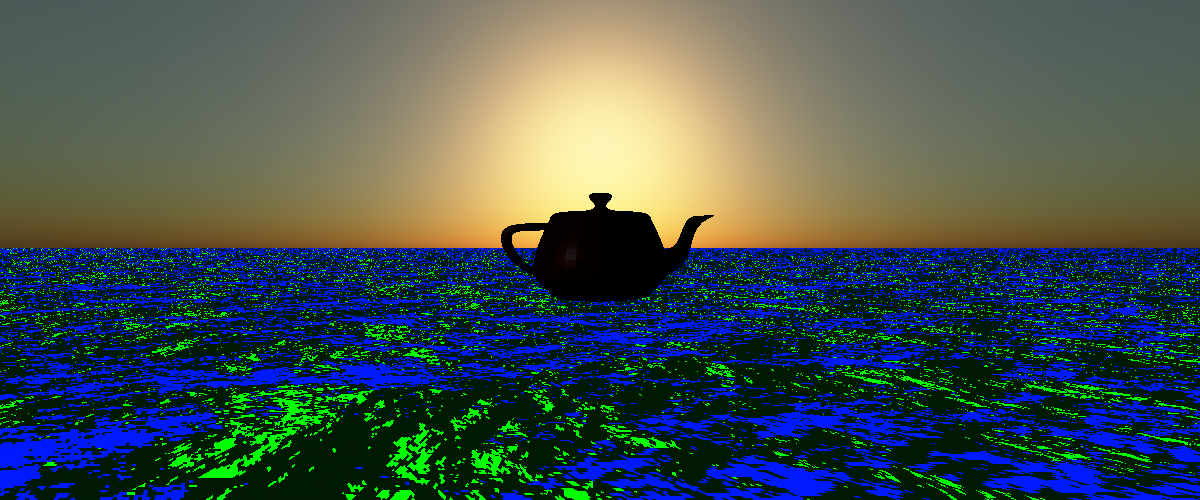
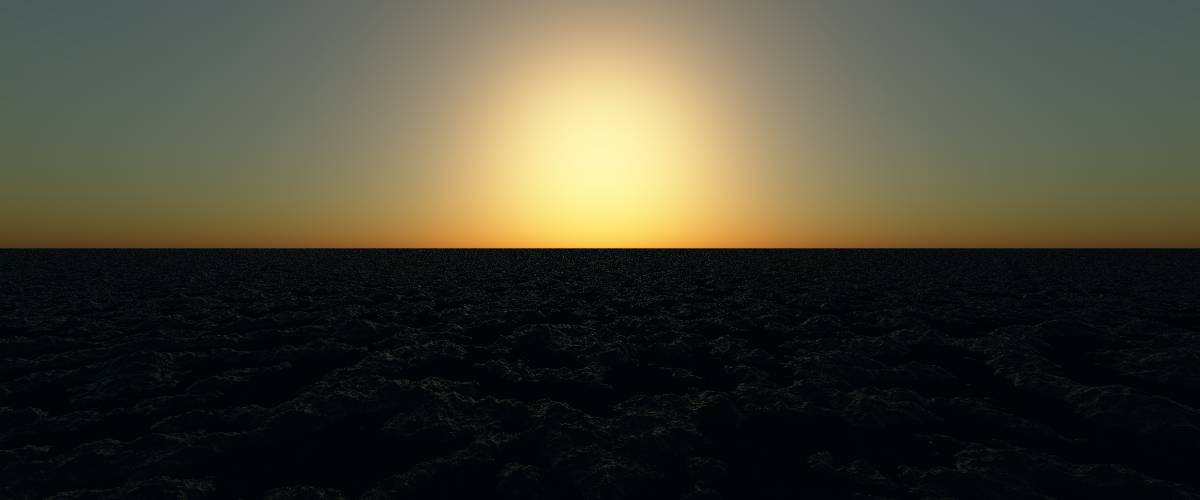
Sky and waves

Changed region(s): [[0.0, 0.39, 1.0, 1.0]]

diff --git a/src/ocean.rs b/src/ocean.rs
@@ -399,7 +399,7 @@ impl MaterialModel for OceanMaterial {
 				let reflect_prob = schlick(cosine, 1.31);
 				if geometry::rand() >= reflect_prob {
 					return ScatteredRay{
-						attenuate: Color::new(0., 0.2, 0.3),
+						attenuate: Color::new(0., 0.02, 0.03),
 						ray: None, // Don't try and refract
 					};
 				}
@@ -438,8 +438,8 @@ impl Geometry for Ocean {
 
 pub fn create_ocean(opts: &Value) -> SceneObject {
 	let o = Ocean::new(opts);
-    let _m = Box::new(OceanMaterial {});
-    let m = Box::new(NormalShade {});
+    let m = Box::new(OceanMaterial {});
+    let _m = Box::new(NormalShade {});
 	return SceneObject {
 		geometry: Box::new(o),
 		medium: Box::new(Solid { m: m}),

diff --git a/src/color.rs b/src/color.rs
@@ -107,19 +107,3 @@ impl Div<f64> for Color {
         Color {rgb: self.rgb / _rhs }
     }
 }
-
-impl PartialOrd for Color {
-    fn partial_cmp(&self, other: &Color) -> Option<Ordering> {
-        if self.rgb[0] < other.rgb[0] &&
-           self.rgb[1] < other.rgb[1] &&
-           self.rgb[2] < other.rgb[2]{
-            return Some(Ordering::Less);
-        }
-        if self.rgb[0] > other.rgb[0] &&
-           self.rgb[1] > other.rgb[1] &&
-           self.rgb[2] > other.rgb[2] {
-            return Some(Ordering::Greater);
-        }
-        return None;
-    }
-}

diff --git a/src/trace.rs b/src/trace.rs
@@ -20,7 +20,7 @@ fn trace_sample(r: &Ray, intersection: &Intersection, depth: u64, s: &Scene) -> 
     let material = intersection.object.medium.material_at(intersection.point);
     let interaction = material.scatter(r, &intersection, s);
 
-    if depth < s.render.max_depth as u64 && interaction.attenuate > s.black_threshold {
+    if depth < s.render.max_depth as u64 && interaction.attenuate.to_vec().norm() > s.black_threshold {
         if let Some(ray) = interaction.ray {
             let (c, col) = trace(&ray, depth + 1, s);
             cast += c;

diff --git a/src/material/normal.rs b/src/material/normal.rs
@@ -13,7 +13,7 @@ pub struct NormalShade {
 impl MaterialModel for NormalShade {
     fn scatter(&self, _r: &Ray, intersection: &Intersection, _s: &Scene) -> ScatteredRay{
         //let angle = (intersection.normal.dot(&Vector3::new(0., 1., 0.)));
-        let c = Color::white() * intersection.normaL; // * angle; 
+        let c = Color::white() * intersection.normal; // * angle; 
         return ScatteredRay{ attenuate: c, ray: None };
     }
 }

diff --git a/src/scenefile.rs b/src/scenefile.rs
@@ -389,7 +389,7 @@ impl SceneFile {
             lights: SceneFile::parse_lights(&s.lights),
             objects: o,
             max_bounding,
-            black_threshold: Color::min(),
+            black_threshold: SceneFile::parse_number(&s.shadow_bias, 1e-7f64) ,
         };
     }
 

diff --git a/src/scene.rs b/src/scene.rs
@@ -27,6 +27,6 @@ pub struct Scene {
     pub objects: SceneGraph,
     pub lights: Vec<Light>,
     pub max_bounding: BBox,
-    pub black_threshold: Color,
+    pub black_threshold: f64,
 }
 
